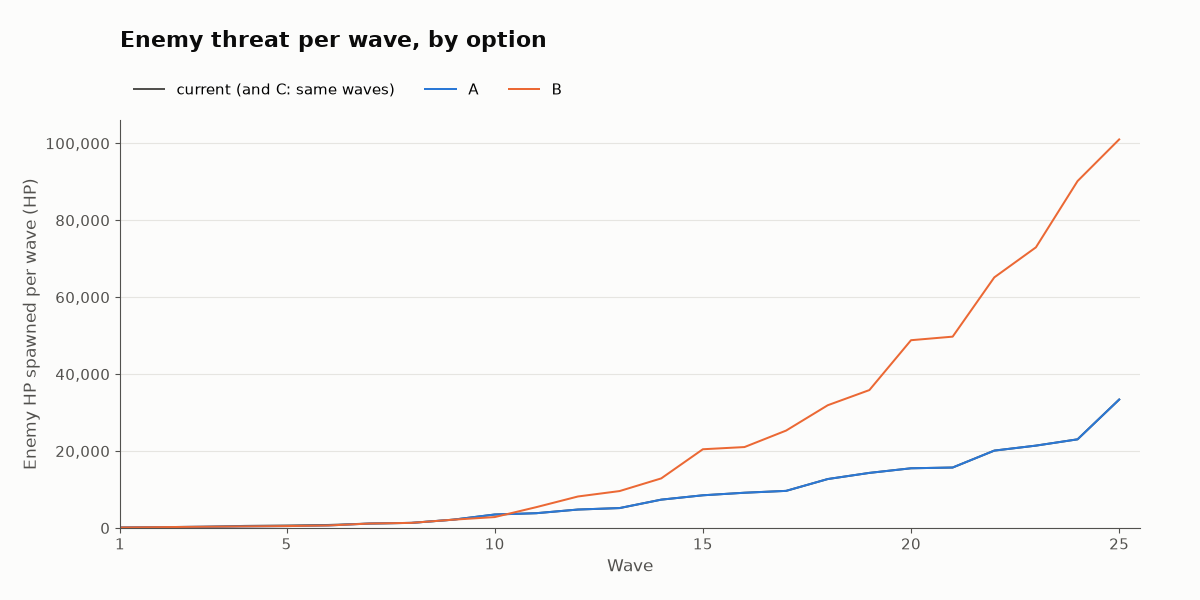
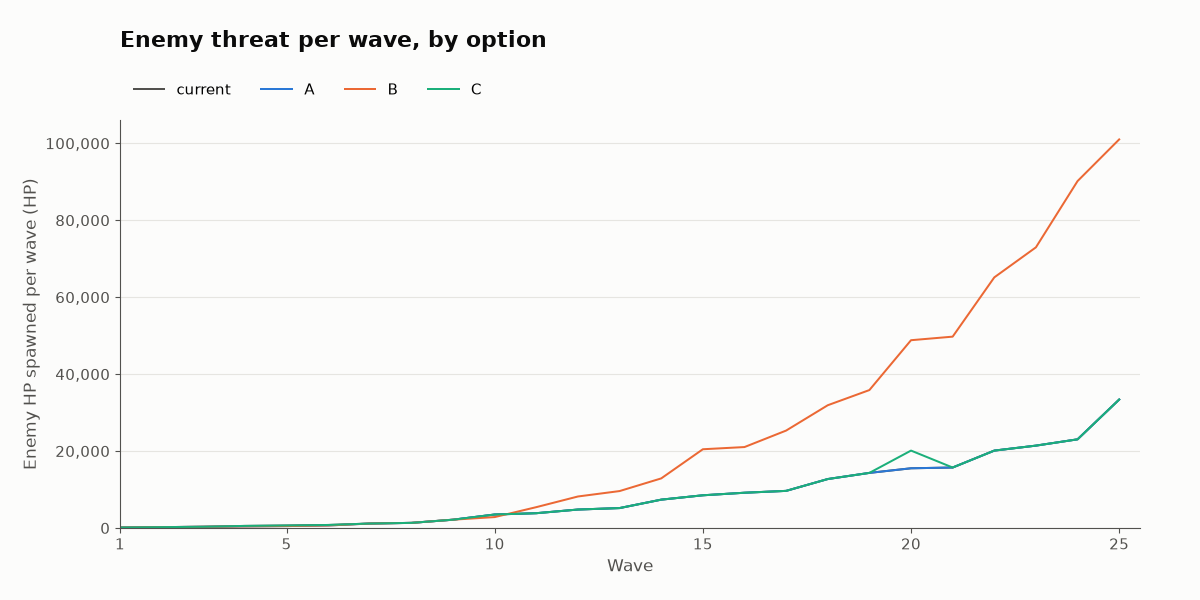
docs: Fix option C and spawn spacing wording in the wave balance devlog
C has one tank in wave 20 and its own spacing; B's custom spacing is in
waves 15, 20 and 25, not from them. BALANCE.md's historical note now also
covers the x1 versus x4 comparison. The threat chart draws C.

diff --git a/docs/devlog/2026-11-09-wave-balance.md b/docs/devlog/2026-11-09-wave-balance.md
@@ -29,17 +29,20 @@ nothing was committed.
   spacing). Waves 10 to 25 stay as they are.
 - **B, A plus a rework of waves 10 to 25:** no heavy in wave 10, heavies 1, 2, 2, 3 in waves 11 to
   14 and 4 to 8 by wave 20, the first tank moved from wave 25 to wave 15, heavy tanks (type 6) from
-  wave 22, tighter spawn spacing (600 ms from wave 15, 550 from wave 20, 500 in wave 25), types 2
+  wave 22, tighter spawn spacing (600 ms in wave 15, 550 in wave 20 and 500 in wave 25; the waves
+  between keep the 1,000 ms default), types 2
   and 3 up to 1.8 and 2 times as many by wave 25 (18 fast runners instead of 10, 14 bruisers
   instead of 7, 10 heavies instead of 5), and no grunts from wave 21.
-- **C, spacing only:** the same enemies, spawned slower in waves 4 to 6 and faster later, one tank
-  in wave 20. Income stays identical to the old waves.
+- **C, spacing and one tank:** the old enemy counts, spawned slower in waves 4 and 5 (1,100 ms)
+  and wave 6 (1,000 ms), and faster later (900 ms in waves 10 to 14, 800 in 15 to 19, 650 in 20 to
+  24, 550 in wave 25), plus one tank moved into wave 20. Income is the old income, plus that tank's.
 
 ![Enemy HP spawned per wave for the current waves, A and B](img/wave-balance-threat.png)
 
 *B's waves carry three times the HP of the current ones by wave 25 (about 101,000 against 33,000).
-A is the current curve with a small dip in waves 4 to 6; C has the same enemies as the current waves,
-so it is not drawn separately.*
+A is the current curve with a small dip in waves 4 to 6; C has the old enemy counts plus one
+tank in wave 20 (4,600 HP more there), so it follows the current line except for a bump in
+wave 20.*
 
 ![Lives left per wave for gun_cannon, by option](img/wave-balance-lives.png)
 
@@ -63,14 +66,14 @@ Headline numbers of the candidate runs (to wave 25):
 ## Decision
 
 **The owner chose B on 2026-11-09. The simulator recommended A**: it removes the early spike with the
-smallest change and puts no new risk in waves 10 to 25. B is the option that adds pressure to waves 11 to 25, which A and C leave as they are. `config/waves.yaml` is B exactly as simulated, with its
+smallest change and puts no new risk in waves 10 to 25. B is the option that adds pressure to waves 11 to 25, which A leaves as it is and C only changes in spacing (plus one tank). `config/waves.yaml` is B exactly as simulated, with its
 comments updated (the first tank is in wave 15, the first heavy tank in wave 22).
 
 ## Rejected alternatives
 
 - **A:** safe, but waves 11 to 25 stay as trivial as measured.
-- **C:** keeps income identical, but it still leaks 3 lives in waves 4 to 6 and its later waves only
-  differ in spacing.
+- **C:** keeps the old income (plus one tank), but it still leaks 3 lives in waves 4 to 6 and its
+  later waves only differ in spacing and that one tank.
 - **More heavies in wave 12 (3 instead of 2):** gun_spam and missile die in that one wave, so B keeps
   to 2.
 

diff --git a/docs/BALANCE.md b/docs/BALANCE.md
@@ -5,7 +5,7 @@ owner's call) can be judged by data first and then confirmed by a few playtests.
 number changed for this document.** The full per-wave tables are in
 [`docs/balance/report.md`](balance/report.md), with one CSV per strategy next to it.
 
-**Note:** the sections below (Machine, Results and the four observations) describe the waves as
+**Note:** the sections below (Method's speed comparison, Machine, Results and the four observations) describe the waves as
 they were before #10. Waves 4 to 6 and 10 to 25 were reworked afterwards (see the
 [devlog entry](devlog/2026-11-09-wave-balance.md)); `docs/balance/` and its charts show the
 current waves.
@@ -44,8 +44,9 @@ Like the smoke test, the script sends every save to a temporary folder and fails
 - **The real game.** Each strategy plays a fresh run in a real `Game()`: the game's own waves,
   enemy stats and scaling, targeting, tank fire, money, lives and game over. Nothing is drawn; the
   fixed tick (`_tick()`) runs as fast as the CPU allows. The game speed is x4 by default, as a
-  player who fast-forwards would play; a plane_spam run at x1 gave the same result (died in wave
-  29; plane ROI 0.09 at both speeds).
+  player who fast-forwards would play; before #10, a plane_spam run at x1 gave the same result as
+  at x4 (died in wave 29; plane ROI 0.09 at both speeds). With the reworked waves it dies in wave
+  25 at x4; the x1 comparison was not repeated.
 - **Start:** 200 money, 10 lives (`config/settings.yaml`). The victory popup after wave 25 is
   answered with Continue. A run ends after `--waves` waves or when lives reach 0.
 - **Bots** (`scripts/balance_bots.py`) look at their money every 0.5 s of game time. Each is an
